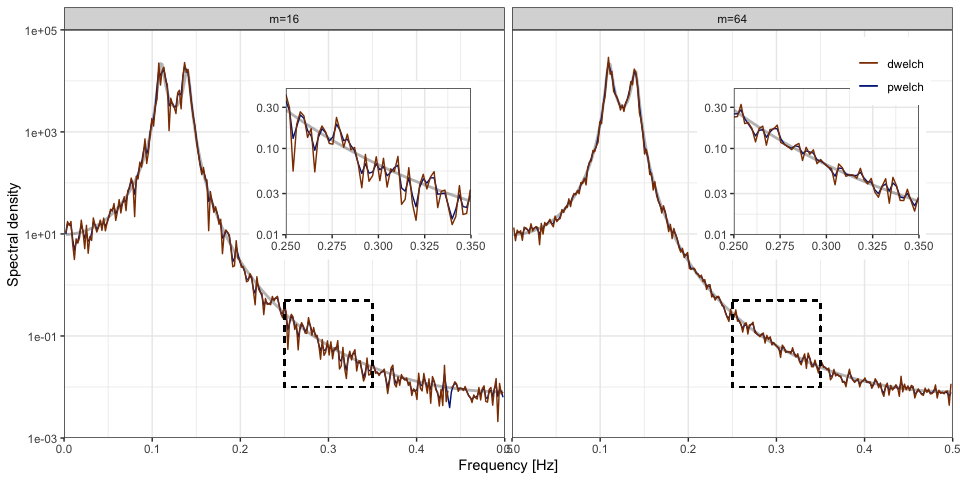
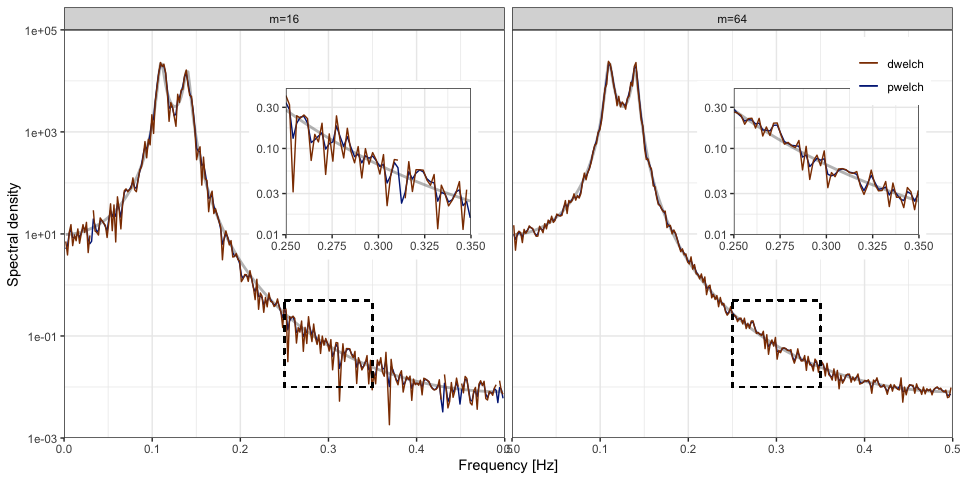
formatted plots in readme

diff --git a/README.md b/README.md
@@ -31,20 +31,26 @@ classic AR(4) problem. First, import some basic packages.
 library(dwelch)
 library(ggplot2)
 library(tidyverse)
+library(latex2exp)
+library(patchwork)
 ```
 
 Next, we set our parameters and generate an AR process.
 
 ``` r
-m <- 32
-l <- 512
-s <- ceiling(l / 2)
+m <- 2^6
+l <- 2^9
+overlap <- 0
+s <- l * (1 - overlap)
 n <- (m - 1) * s + l
-delta <- 1 # sampling interval (not frequency)
+delta <- 1
 
 phis <- c(2.7607, -3.8106, 2.6535, -0.9238)
 sd <- 1
-sampled_ar <- stats::arima.sim(list(ar = phis), n, n.start = 1000, sd = sd)
+
+sampled_ar <- stats::arima.sim(
+    list(ar = phis), n, n.start = 1000, sd = sd
+)
 ```
 
 Define our data taper, <tt>h</tt>, and calculate Welch’s estimate of the
@@ -59,9 +65,15 @@ you will need to explicitly call <tt>dwelch::pwelch</tt>.
 h_hm <- gsignal::hamming(l) # Hamming filter
 h_bc <- rep(1, l) #Boxcar filter
 
-pwelch_bc <- pwelch(sampled_ar, m, l, s, delta, h_bc)
-pwelch_hm <- pwelch(sampled_ar, m, l, s, delta, h_hm)
+pwelch_bc <- dwelch::pwelch(sampled_ar, m, l, s, delta, h_bc)
+pwelch_hm <- dwelch::pwelch(sampled_ar, m, l, s, delta, h_hm)
 ```
+
+    #> Warning: Using `size` aesthetic for lines was deprecated in ggplot2 3.4.0.
+    #> ℹ Please use `linewidth` instead.
+    #> This warning is displayed once every 8 hours.
+    #> Call `lifecycle::last_lifecycle_warnings()` to see where this warning was
+    #> generated.
 
 <img src="man/figures/README-unnamed-chunk-6-1.png" width="100%" />
 
@@ -73,11 +85,15 @@ selection of <tt>k</tt>, the function <tt>dwelch</tt> excutes similarly
 to <tt>pwelch</tt>, above.
 
 ``` r
-k <- round(get_nfreq(l) / 2, 0)
-
-dwelch_bc <- dwelch(sampled_ar, m, l, s, k, delta, h_bc)
-dwelch_hm <- dwelch(sampled_ar, m, l, s, k, delta, h_hm)
+dwelch_bc <- dwelch::dwelch(
+    sampled_ar, m, l, s, k = l / 4, h = h_bc, model = "nnls"
+)
+dwelch_hm <- dwelch::dwelch(
+    sampled_ar, m, l, s, k = l / 4, h = h_hm, model = "nnls"
+)
 ```
+
+    #> Warning: Removed 1 row containing missing values (`geom_line()`).
 
 <img src="man/figures/README-unnamed-chunk-8-1.png" width="100%" />
 
@@ -95,6 +111,8 @@ nnls solution is the same.
 
 ``` r
 set.seed(23)
+
+k = l / 4
 
 sampled_ar <- stats::arima.sim(list(ar = phis), n, n.start = 1000, sd = sd)
 
